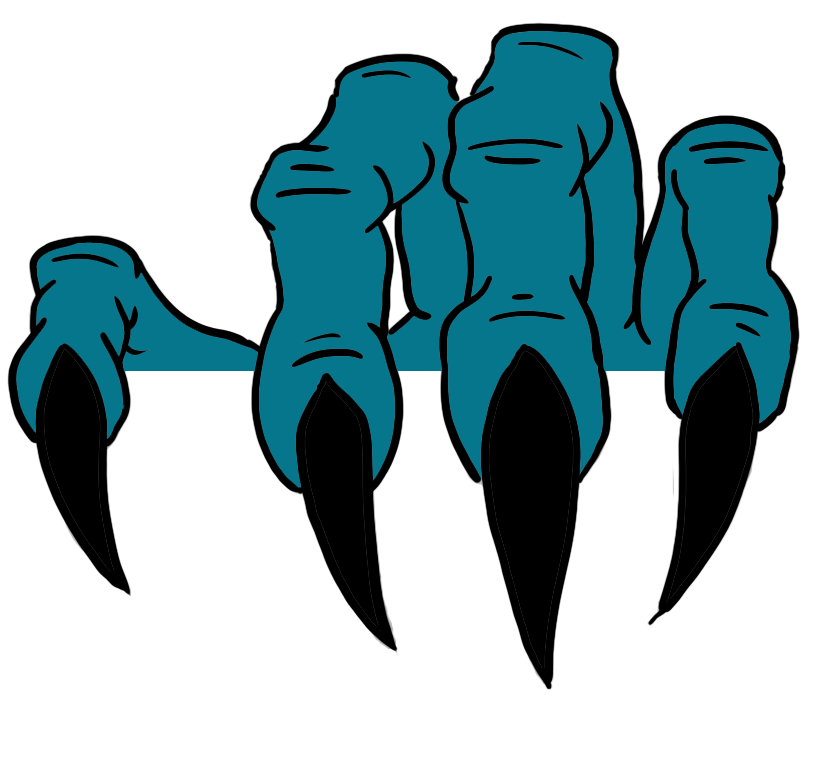
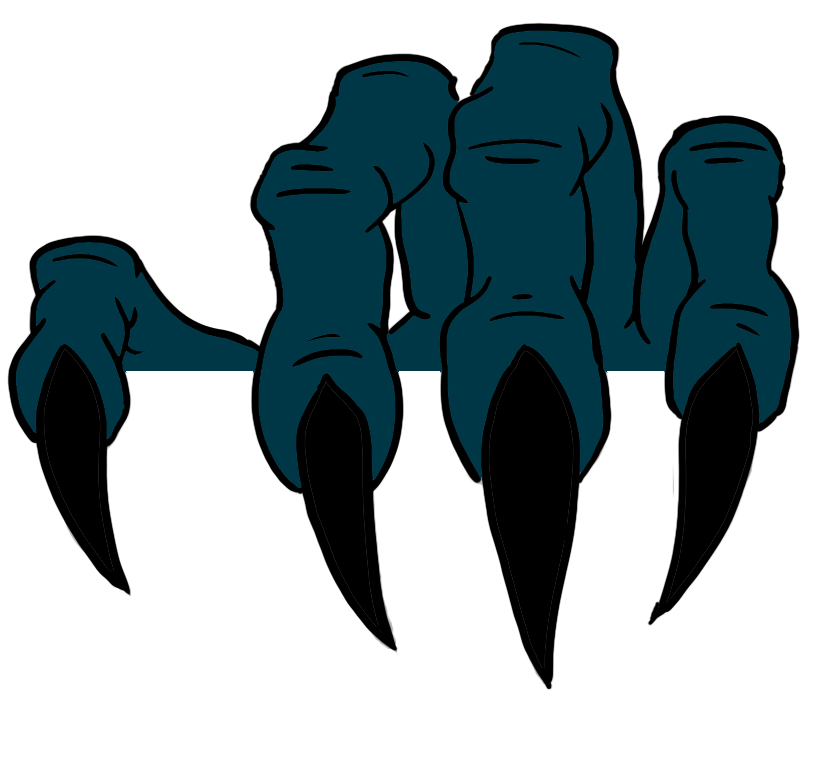
made minior styling changes to header

Changed region(s): [[0.0, 0.0301, 0.9685, 0.6314], [0.7869, 0.7817, 0.8172, 0.8118]]

diff --git a/client/components/Header.jsx b/client/components/Header.jsx
@@ -11,8 +11,8 @@ class Header extends React.Component {
             <React.Fragment>             
                 <div id="header">
                 <img src="./img/logo.png" alt="Main Logo" className="mainLogo"></img>
-                <div className="slogan">FEAR NOT! LET US BE YOUR DIGITAL PARTNER</div>
-                <img src="./img/eyes.png" alt="React Icon" className="eyes"></img>
+                <div className="slogan">FEAR NOT!<br/>WE WILL BE YOUR DIGITAL PARTNER</div>
+                <img src="./img/eyes.gif" alt="React Icon" className="eyes"></img>
                 <img src="./img/claw.png" alt="React Icon" className="claw"></img>
                 </div>
             </React.Fragment>

diff --git a/server/public/main.css b/server/public/main.css
@@ -81,7 +81,7 @@ h1 {
 }
 
 .eyes {
-  height: 300px;
+  height: 200px;
   position: absolute;
   width: auto;
   bottom: 0;
@@ -91,13 +91,16 @@ h1 {
 }
 
 .slogan {
+  font-family: 'Orbitron', 'Arial', 'sans-serif';
+  font-weight: 500;
   font-size: 30px;
   position: absolute;
   color: white;
   bottom: 0;
   left: 0;
   margin-bottom: 330px;
-  margin-left: 130px;
+  margin-left: 9.5%;
+  text-align: center;
 }
 
 .claw {
@@ -106,7 +109,7 @@ h1 {
   position: absolute;
   bottom: 0;
   right: 0;
-  margin-bottom: 23px;
+  margin-bottom: 20px;
   margin-right: 55px;
   z-index: 1;
 }

diff --git a/server/public/index.html b/server/public/index.html
@@ -6,6 +6,7 @@
   <meta http-equiv="X-UA-Compatible" content="ie=edge">
   <link rel="stylesheet" href="./main.css">
   <link href="https://fonts.googleapis.com/css2?family=Montserrat:wght@500&display=swap" rel="stylesheet">
+  <link href="https://fonts.googleapis.com/css2?family=Orbitron:wght@400;500;600;700;800;900&display=swap" rel="stylesheet">
   <script src="https://kit.fontawesome.com/1f041d12ec.js" crossorigin="anonymous"></script>
   <title>PHEARNOC Digital</title>
 </head>
